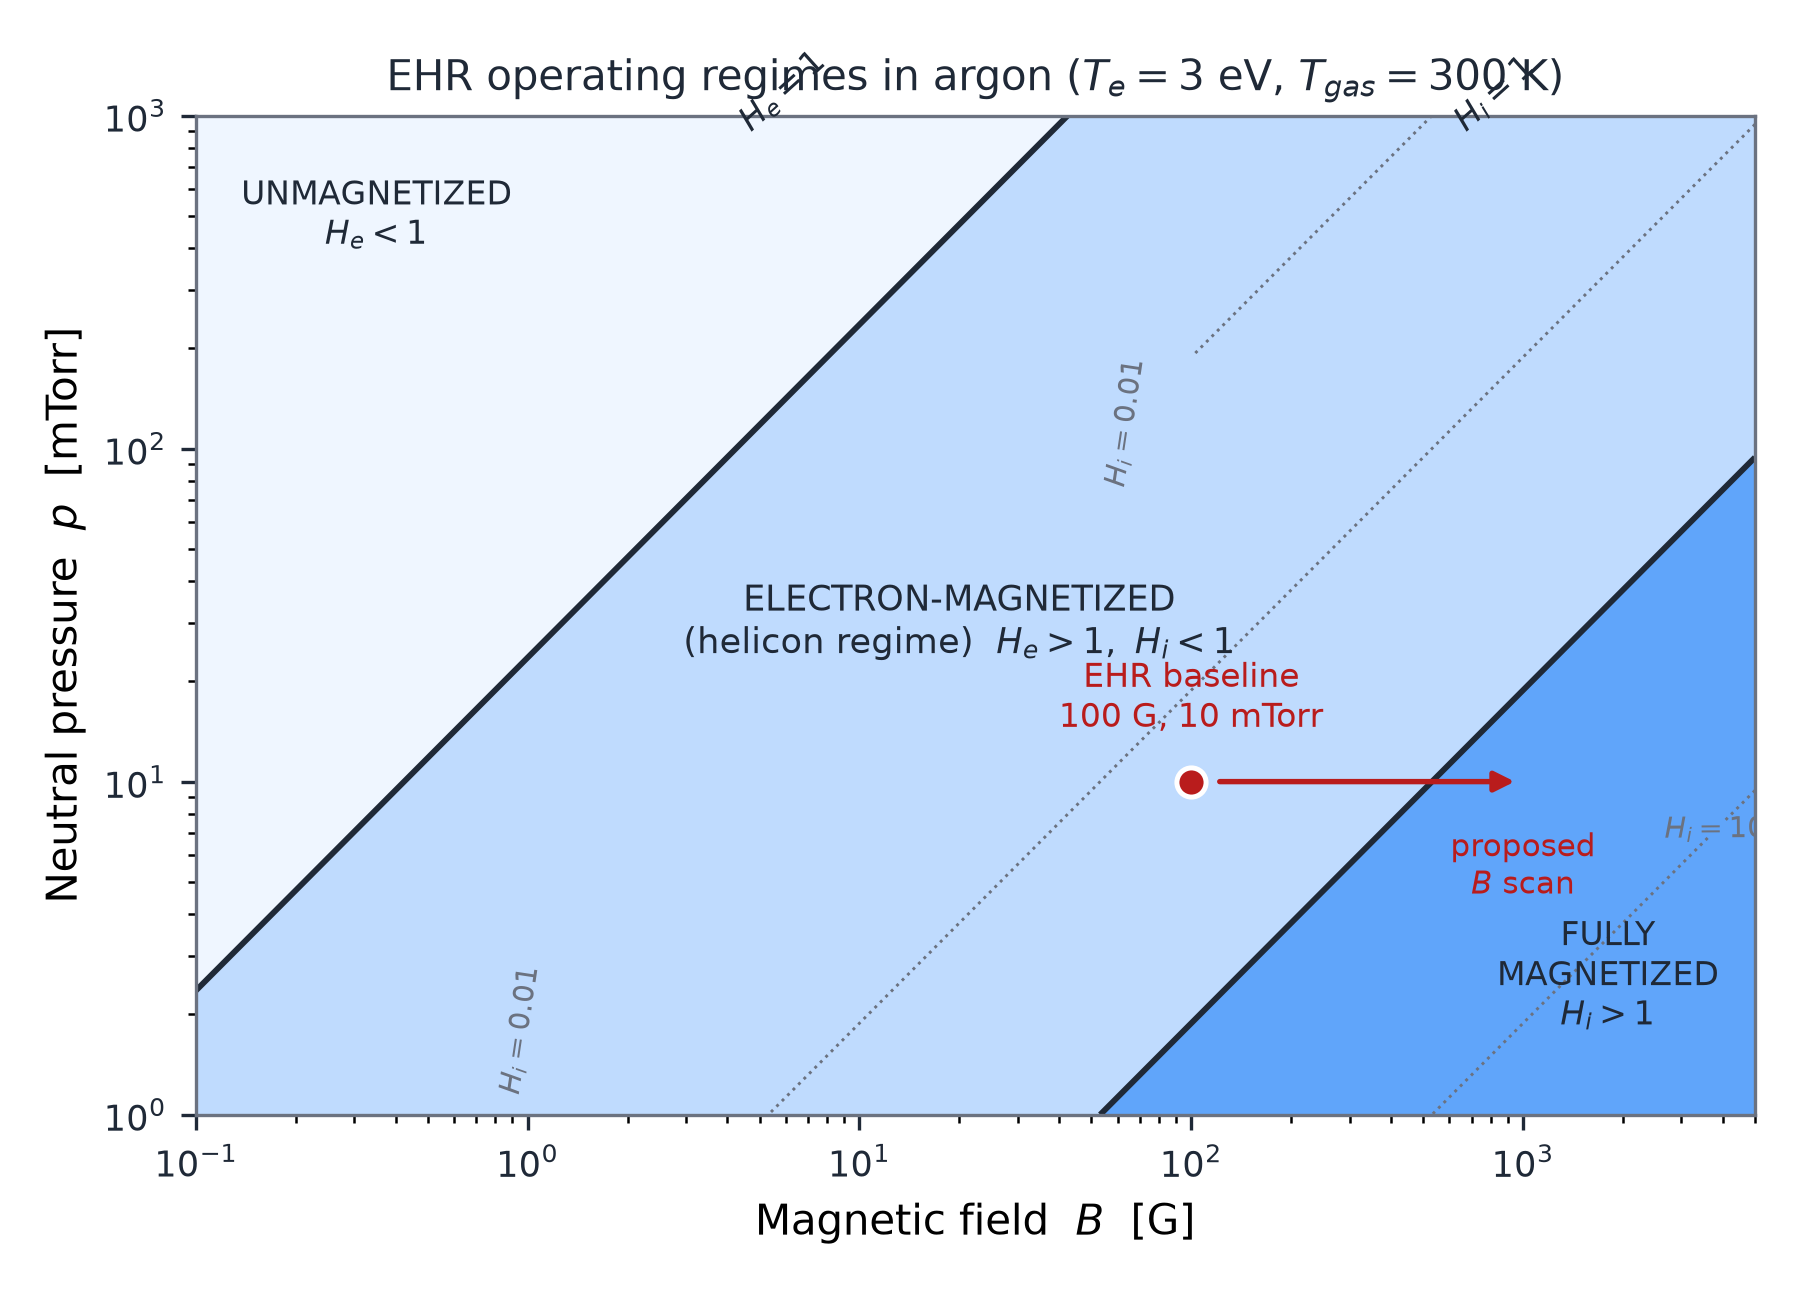
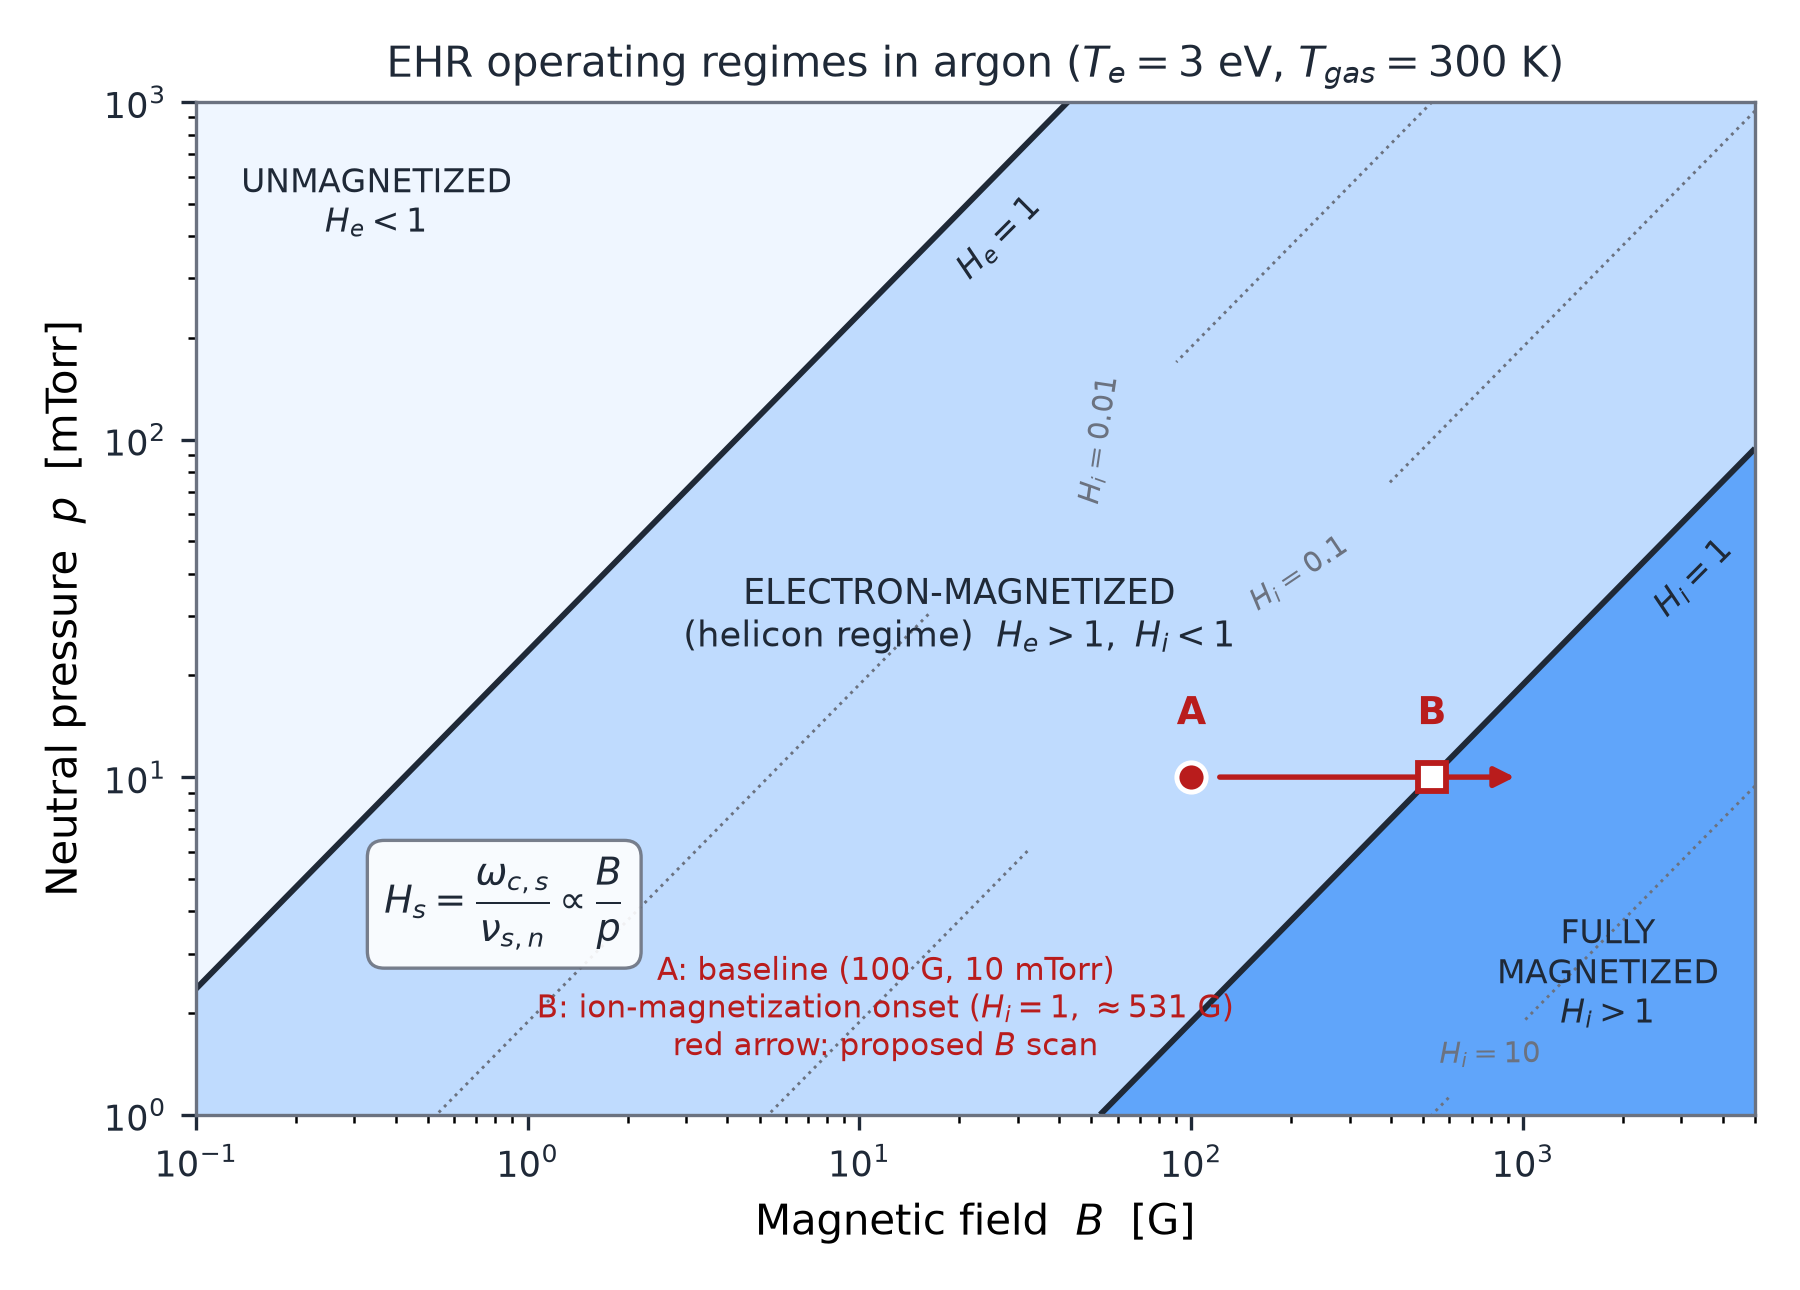
Mobile responsiveness achieved. LaTeX paper v2 updated and improved significantly, more updates comnig soon

diff --git a/paper/figures/regime_map.py b/paper/figures/regime_map.py
@@ -66,7 +66,7 @@ ax.contour(BB, PP, Hi, levels=[1], colors=[INK], linewidths=1.4)
 ci = ax.contour(BB, PP, Hi, levels=[0.01, 0.1, 10], colors=[MUTED],
                 linewidths=0.7, linestyles="dotted")
 ax.clabel(ci, fmt=lambda v: rf"$H_i={v:g}$", fontsize=7, colors=MUTED,
-          manual=[(0.9, 1.8), (60, 120), (3800, 6.5)])
+          manual=[(53, 100), (212, 40), (797, 1.5)])
 
 # region labels (direct labels: identity never rides on fill color alone)
 ax.text(0.35, 500, "UNMAGNETIZED\n$H_e<1$", fontsize=8, color=INK,
@@ -75,17 +75,28 @@ ax.text(20, 30, "ELECTRON-MAGNETIZED\n(helicon regime)  $H_e>1,\\ H_i<1$",
         fontsize=8.5, color=INK, ha="center", va="center")
 ax.text(1800, 2.6, "FULLY\nMAGNETIZED\n$H_i>1$", fontsize=8, color=INK,
         ha="center", va="center")
-ax.text(4.2, 900, "$H_e=1$", fontsize=8, color=INK, rotation=42)
-ax.text(600, 900, "$H_i=1$", fontsize=8, color=INK, rotation=42)
+ax.text(19, 300, "$H_e=1$", fontsize=8, color=INK, rotation=45)
+ax.text(2400, 30, "$H_i=1$", fontsize=8, color=INK, rotation=45)
 
-# EHR baseline point and proposed B-scan
-ax.plot([100], [10], marker="o", ms=7, mfc="#b91c1c", mec="white", mew=1.2, zorder=5)
+# operating points: A = baseline, B = ion-magnetization onset (H_i = 1), same pressure
+B_ONSET = 100.0 / hall(100, 10, MI, SIGMA_IN, VBAR_I)
 ax.annotate("", xy=(1000, 10), xytext=(115, 10),
             arrowprops=dict(arrowstyle="-|>", color="#b91c1c", lw=1.3))
-ax.text(100, 13.5, "EHR baseline\n100 G, 10 mTorr", fontsize=8, color="#b91c1c",
-        ha="center", va="bottom")
-ax.text(1000, 7.2, "proposed\n$B$ scan", fontsize=7.5, color="#b91c1c",
-        ha="center", va="top")
+ax.plot([100], [10], marker="o", ms=7, mfc="#b91c1c", mec="white", mew=1.2, zorder=5)
+ax.plot([B_ONSET], [10], marker="s", ms=6.5, mfc="white", mec="#b91c1c", mew=1.4, zorder=5)
+ax.text(100, 13.5, "A", fontsize=9, fontweight="bold", color="#b91c1c", ha="center", va="bottom")
+ax.text(B_ONSET, 13.5, "B", fontsize=9, fontweight="bold", color="#b91c1c", ha="center", va="bottom")
+ax.text(12, 2.05,
+        "A: baseline (100 G, 10 mTorr)\n"
+        rf"B: ion-magnetization onset ($H_i=1$, $\approx${B_ONSET:.0f} G)"
+        "\nred arrow: proposed $B$ scan",
+        fontsize=7.5, color="#b91c1c", ha="center", va="center")
+
+# the map explains itself: definition + scaling of the contoured quantity
+ax.text(0.85, 4.2,
+        r"$H_s=\dfrac{\omega_{c,s}}{\nu_{s,n}} \propto \dfrac{B}{p}$",
+        fontsize=9, color=INK, ha="center", va="center",
+        bbox=dict(boxstyle="round,pad=0.45", fc="white", ec=MUTED, lw=0.8, alpha=0.9))
 
 ax.set_xscale("log"); ax.set_yscale("log")
 ax.set_xlim(B[0], B[-1]); ax.set_ylim(p[0], p[-1])

diff --git a/paper/ehr-paper.tex b/paper/ehr-paper.tex
@@ -118,6 +118,15 @@ H_s = \frac{\omega_{c,s}}{\nu_{s,n}} = \frac{q_s B / m_s}{n_n \sigma_{s,n} \bar{
 \end{equation}
 where $s \in \{e, i\}$ and $n_n$ is the neutral density set by the fill pressure. Species with $H_s \gg 1$ are magnetized; species with $H_s \lesssim 1$ are not. For argon at 10~mTorr ($n_n \approx 3\times10^{20}\ \mathrm{m}^{-3}$ at room temperature), electrons satisfy $H_e \gg 1$ already at tens of gauss, since $\omega_{ce}$ is large and electron-neutral collisionality is comparatively low. Ions, being $\sim\!7\times10^4$ times heavier, have a correspondingly smaller $\omega_{ci}$ at fixed $B$; at 100~G, $H_i \sim 0.1$--$0.3$ using representative ion-neutral cross sections $\sigma_{in} \sim 10^{-18}\ \mathrm{m}^2$, so ions remain unmagnetized while electrons are strongly magnetized. Raising $B$ toward $\sim$1~kG increases $H_i$ to order unity, marking the onset of ion magnetization and providing a clear, quantitatively grounded regime boundary that can be explored experimentally by scanning $B$ at fixed pressure.
 
+Figure~\ref{fig:regime} maps these boundaries across the accessible $B$--$p$ space. The baseline operating point (A) sits well inside the electron-magnetized helicon band, and the proposed field scan traverses continuously to the onset of ion magnetization (B, where $H_i = 1$ at approximately 530~G for the parameters above) and beyond: the device can move from electron-only magnetization to combined electron--ion magnetization without changing gas conditions.
+
+\begin{figure}[htbp]
+\centering
+\includegraphics[width=0.92\textwidth]{figures/ehr-regime-map.pdf}
+\caption{Operating-regime map for argon in the $B$--$p$ plane, with Hall-parameter contours from Eq.~\eqref{eq:hall}. Point A is the baseline operating point; point B marks the onset of ion magnetization ($H_i=1$) reached by the proposed field scan at fixed pressure. Regime boundaries depend on the assumed collision cross sections and characteristic particle velocities ($T_e = 3$~eV, $T_{\mathrm{gas}} = 300$~K, $\sigma_{en} = 2\times10^{-20}$~m$^2$, $\sigma_{in} = 10^{-18}$~m$^2$) and should be interpreted as order-of-magnitude estimates.}
+\label{fig:regime}
+\end{figure}
+
 \section{Resonance-Matched Power Coupling}
 
 Efficient power deposition is achieved by coupling to the helicon mode, whose resonance condition links drive frequency, wavenumber, plasma density, and magnetic field through the helicon dispersion relation \cite{chenarnush1997,boswell1984,chen2015}. For the $m=1$ mode in the low-frequency (whistler) limit, this relation takes the form
@@ -163,6 +172,21 @@ Acoustic standing waves are proposed as an independent control channel acting on
 \label{fig:modes}
 \end{figure}
 
+\section{Sanity-Check Scaling Estimates}
+\label{sec:scaling}
+
+The following order-of-magnitude estimates, all at the baseline operating point (argon, 10~mTorr, 100~G, $T_e = 3$~eV, $T_{\mathrm{gas}} = 300$~K), make the assumptions behind the proposed architecture explicit and auditable.
+
+\begin{itemize}
+    \item \textbf{Neutral density and mean free path.} $n_n = p / k_B T_{\mathrm{gas}} \approx 3.2\times10^{20}\ \mathrm{m}^{-3}$. With $\sigma_{nn} \sim 10^{-18}\ \mathrm{m}^2$, the neutral--neutral mean free path is $\lambda_n = (\sqrt{2}\, n_n \sigma_{nn})^{-1} \approx 2$~mm, giving a Knudsen number of order $10^{-2}$ for a 10-cm-scale chamber. The gas is only marginally in the continuum regime: classical acoustics applies, but damping is strong and textbook standing-wave behavior cannot be assumed.
+    \item \textbf{Electron magnetization.} With $\sigma_{en} \approx 2\times10^{-20}\ \mathrm{m}^2$ at a few eV, Eq.~\eqref{eq:hall} gives $H_e \approx 240$ at 100~G: electrons are strongly magnetized throughout the proposed operating range.
+    \item \textbf{Ion magnetization.} With $\sigma_{in} \approx 10^{-18}\ \mathrm{m}^2$, $H_i \approx 0.19$ at 100~G, crossing unity at $\approx 530$~G and reaching $\approx 1.9$ at 1~kG --- the basis for the regime boundary of Fig.~\ref{fig:regime}.
+    \item \textbf{Acoustic density modulation.} At 10~mTorr the background pressure is $P_0 \approx 1.33$~Pa. For acoustic pressure amplitudes $\Delta P = 0.01$--$0.1$~Pa, the expected neutral-density perturbation is $\Delta n_n / n_n \approx \Delta P / P_0 \approx 0.8$--$8\%$. The ability to achieve such amplitudes at 10~mTorr remains an experimental question and constitutes the primary uncertainty of the proposed acoustic-control channel.
+    \item \textbf{Helicon resonance range.} For a chamber radius $a = 0.1$~m ($k_\perp \approx 3.83/a \approx 38\ \mathrm{rad/m}$), an antenna wavenumber $k \approx 20\ \mathrm{rad/m}$, and $B_0 = 100$~G, Eq.~\eqref{eq:dispersion} places the resonance at $n_e \approx 4.5\times10^{17}\ \mathrm{m}^{-3}$ for a 13.56~MHz drive --- squarely within the density range of conventional helicon sources.
+\end{itemize}
+
+These estimates use representative cross sections and thermal velocities; the resulting numbers should be read as order-of-magnitude guides rather than predictions, and the sensitivity of each to the assumed parameters is itself a target for the validation program of Section~\ref{sec:validation}.
+
 \section{Applications}
 
 The architecture targets improved across-wafer uniformity in processes such as tungsten metallization and SiC etching. Magnetic field management near the wafer remains important to minimize non-uniformity and charging damage. The device is also proposed as a flexible platform for fundamental studies of helicon-acoustic coupling and dusty plasma dynamics under controlled conditions.
@@ -175,7 +199,7 @@ Three falsifiable predictions are defined at the baseline operating point of Sec
 \begin{enumerate}
     \item The $m=1$ helicon mode can be directly measured with a phase-resolved B-dot probe array \cite{hutchinson} and shown to satisfy the helicon dispersion relation.
     \item Scanning the drive frequency or magnetic field strength through the helicon resonance condition produces a measurable peak in plasma density.
-    \item Acoustic standing-wave drive imprints measurable centimeter-scale periodic modulation on both the neutral gas density and the plasma density.
+    \item Acoustic standing-wave drive imprints measurable centimeter-scale periodic modulation on both the neutral gas density and the plasma density. Given the amplitude estimates of Section~\ref{sec:scaling}, a reproducible modulation of $\Delta n/n \gtrsim 0.5$--$1\%$ synchronized with the acoustic drive would suffice to establish the coupling channel.
 \end{enumerate}
 
 Failure of the third prediction would indicate that acoustic modulation does not couple effectively to the plasma under the proposed conditions. Failure of pitch-dependent effects at constant $|B|$ and power would indicate that the tunable helical geometry does not provide meaningful additional control.